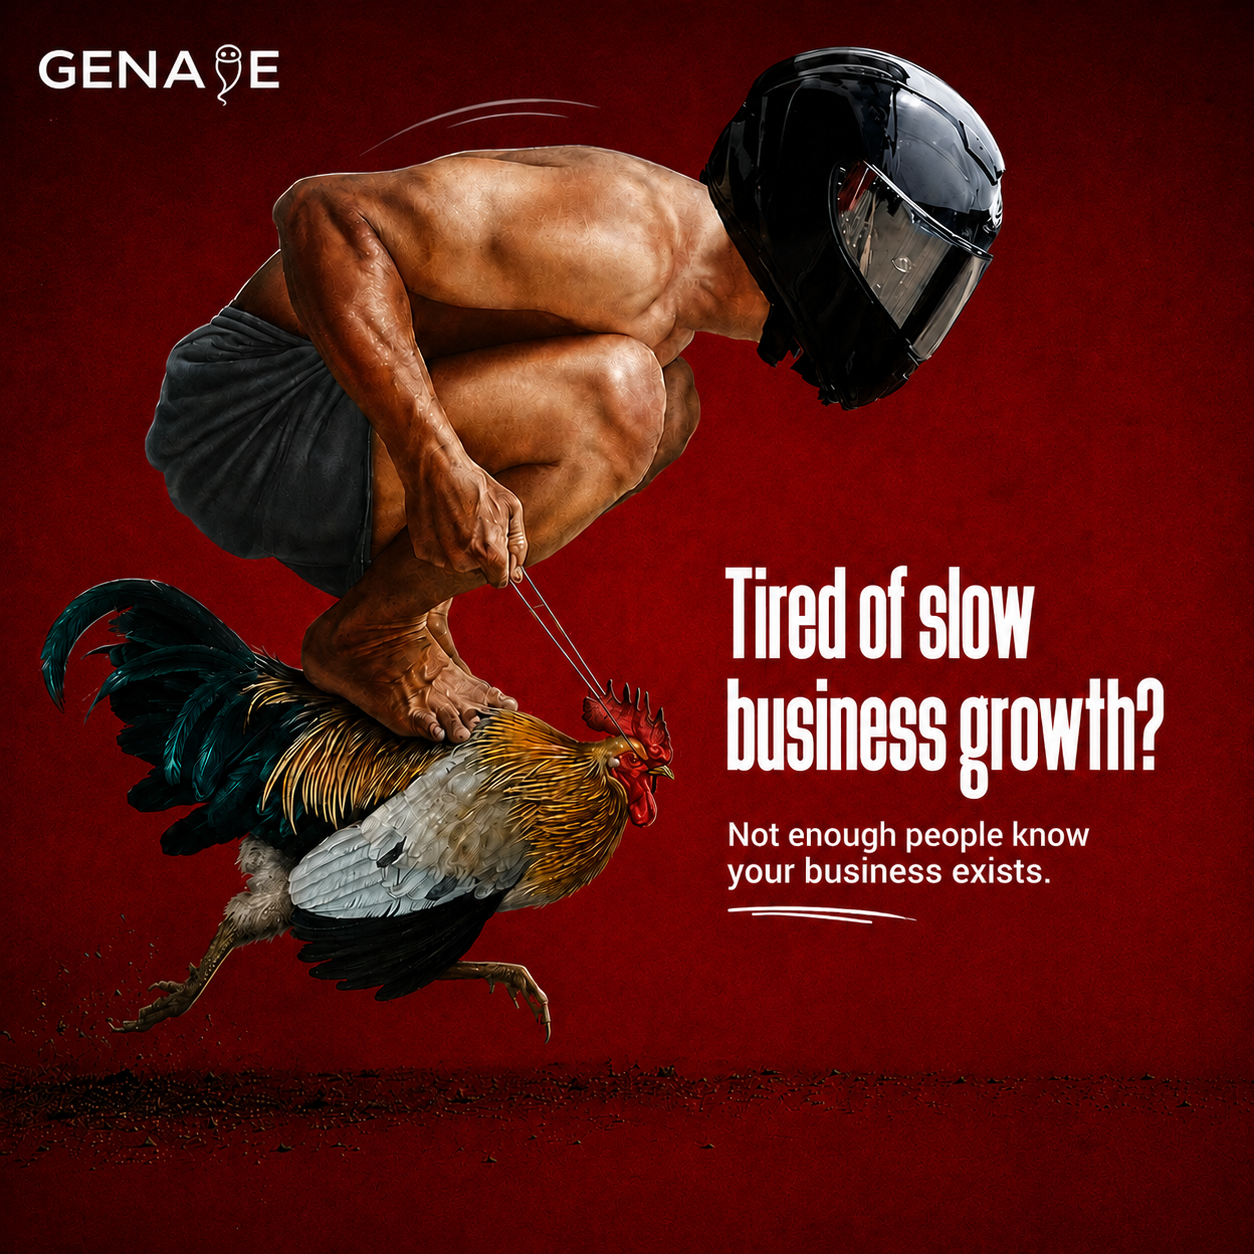
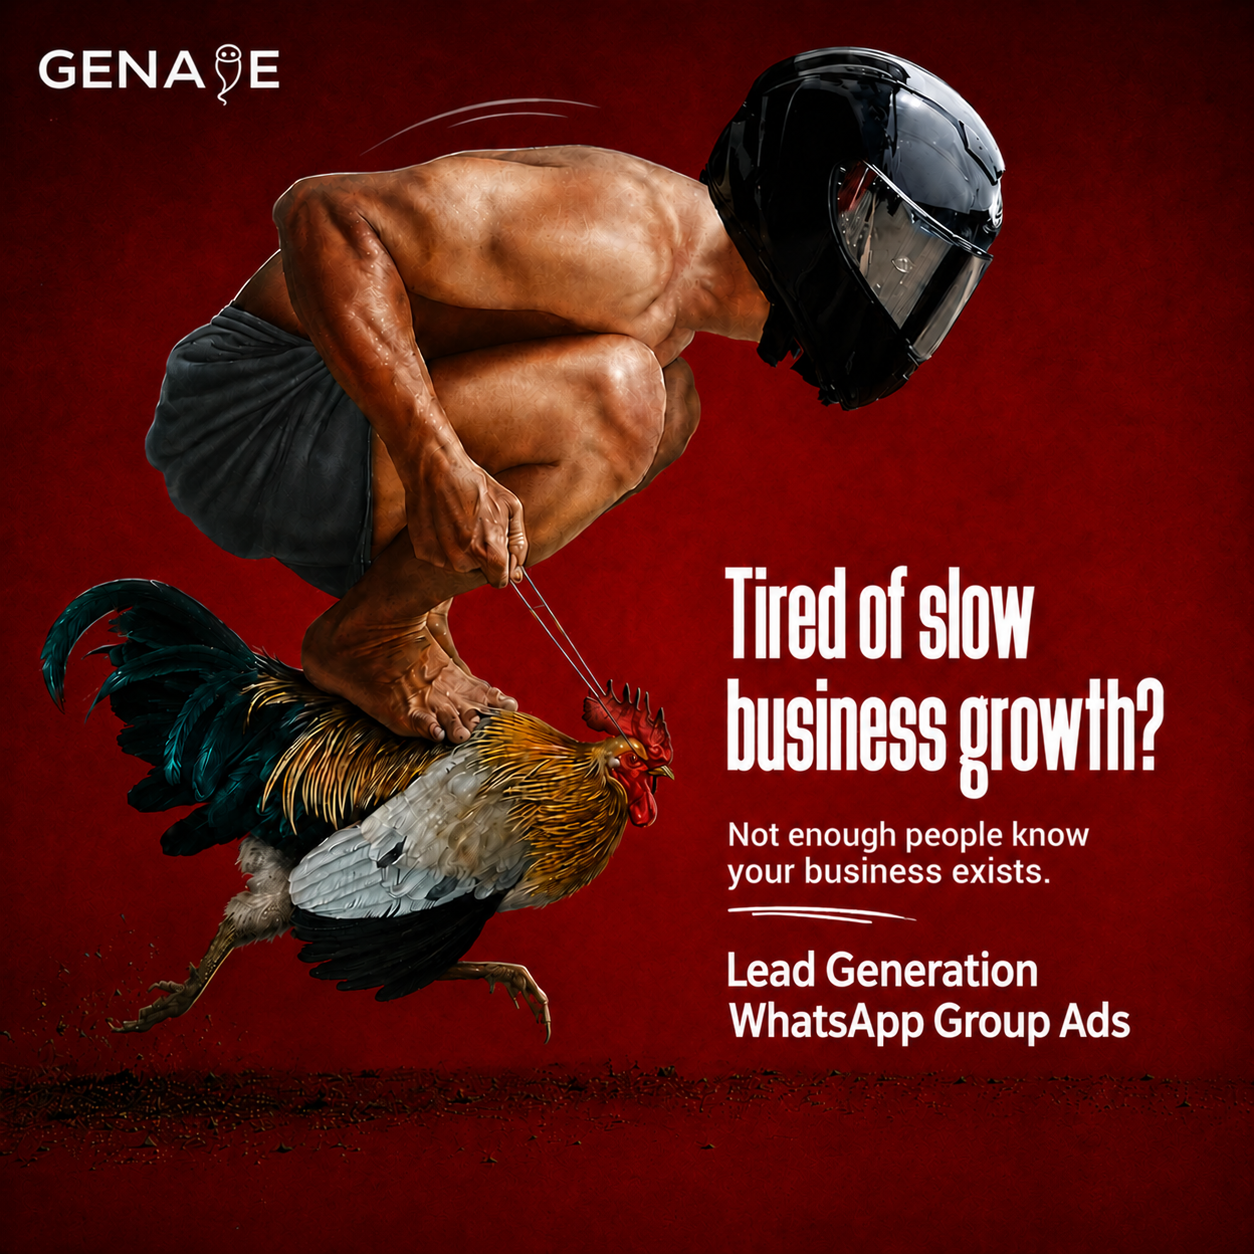
removed poster design and customer-service bots from being advertised (#143)

diff --git a/workspace/cron/genaie-promo/post_ad.py b/workspace/cron/genaie-promo/post_ad.py
@@ -3,7 +3,7 @@
 Genaie-services daily ad poster.
 
 Posts a FIXED, predefined advert (caption + image) for Genaie's own services
-(WhatsApp group advertising, poster design, WhatsApp bots) to a configured set of
+(lead generation and WhatsApp group advertising) to a configured set of
 WhatsApp groups, once per day per group. There is NO AI/LLM generation involved:
 the post text is a hardcoded constant and the image is a bundled asset. This
 script is meant to run from an OpenClaw `--command` cron (deterministic, no agent
@@ -57,22 +57,19 @@ STATE_FILE = os.environ.get(
 POST_TEXT = (
     "\U0001F4E2 Get Your Business Noticed\n"
     "Get Customers Ready To Buy\n"
-    "Get 24/7 Customer Service For Your Business\n"
     "\n"
     "Great products go unnoticed when nobody knows they exist. "
     "Genaie fixes that.\n"
     "\n"
     "\U0001F9F2 Lead Generation\n"
     "\U0001F7E2 WhatsApp Group Ads\n"
-    "\U0001F3A8 Poster Design\n"
-    "\U0001F916 Customer Service WhatsApp Bots\n"
     "\n"
     "\U0001F4DE WhatsApp us: {bot_number}"
 )
 
 # Caption variants that rotate per group per day (see promo_broadcast) so the ad
 # doesn't read as copy-paste spam. Variant 1 is POST_TEXT verbatim; the others
-# reword/reorder only. Every fact (the four services, number) must stay
+# reword/reorder only. Every fact (the two services, number) must stay
 # IDENTICAL across variants -- never add a claim or offer here.
 POST_TEXT_V2 = (
     "\U0001F440 Do people know your business exists?\n"
@@ -81,12 +78,9 @@ POST_TEXT_V2 = (
     "Genaie fixes that.\n"
     "\n"
     "\U0001F7E2 WhatsApp Group Ads\n"
-    "\U0001F3A8 Poster Design\n"
     "\U0001F9F2 Lead Generation\n"
-    "\U0001F916 Customer Service WhatsApp Bots\n"
     "\n"
-    "Get your business noticed, get customers ready to buy, and get 24/7 "
-    "customer service for your business.\n"
+    "Get your business noticed and get customers ready to buy.\n"
     "\n"
     "\U0001F4DE WhatsApp us: {bot_number}"
 )
@@ -96,13 +90,10 @@ POST_TEXT_V3 = (
     "\n"
     "✔ Get your business noticed\n"
     "✔ Get customers ready to buy\n"
-    "✔ Get 24/7 customer service for your business\n"
     "\n"
     "Our services:\n"
-    "\U0001F916 Customer Service WhatsApp Bots\n"
     "\U0001F9F2 Lead Generation\n"
     "\U0001F7E2 WhatsApp Group Ads\n"
-    "\U0001F3A8 Poster Design\n"
     "\n"
     "\U0001F4DE WhatsApp us: {bot_number}"
 )

diff --git a/README.md b/README.md
@@ -280,8 +280,8 @@ individual installers (see *Job feeds* above).
   JIDs listed in `workspace/cron/building-materials-promo/targets.json`
 - **`genaie-promo`** (`install-genaie-promo.sh`, 14:26) runs
   `workspace/cron/genaie-promo/post_ad.py`, a deterministic (no-agent) job that
-  posts the fixed Genaie-services ad (group advertising, poster design, WhatsApp
-  bots) to the WhatsApp group JIDs listed in
+  posts the fixed Genaie-services ad (lead generation and WhatsApp group
+  advertising) to the WhatsApp group JIDs listed in
   `workspace/cron/genaie-promo/targets.json` (every group the bot is in except
   Vacancy Lamp)
 - **`genaie-leads-promo`** (`install-genaie-leads-promo.sh`, 17:06) runs

diff --git a/workspace/docs/public-services.md b/workspace/docs/public-services.md
@@ -80,8 +80,8 @@ The facts live in `workspace/docs/business-info.md`. In summary:
 4. CV writing and revamping, US$5 by EcoCash. Follow
    `/home/joseph/.openclaw/workspace/docs/cv-maker-onboarding.md` for the
    automated order.
-5. Business services: lead generation, WhatsApp group ads, poster design,
-   customer-service WhatsApp bots. Quoted per customer, so handed off.
+5. Business services: lead generation and WhatsApp group ads. Quoted per
+   customer, so handed off.
 6. A job-vacancy WhatsApp group (Vacancy Lamp) that job seekers can be added
    to. We do not search for jobs or send applications for anyone.
 

diff --git a/workspace/docs/business-info.md b/workspace/docs/business-info.md
@@ -93,8 +93,6 @@ else not listed above.
 - Lead generation: we find potential customers for a business. The business
   chooses how to pay: per lead, a fixed monthly payment, or a % of revenue.
 - WhatsApp group adverts.
-- Poster design.
-- Customer-service WhatsApp bots.
 
 Prices for these are quoted per customer, so hand off once you know what they
 need.
